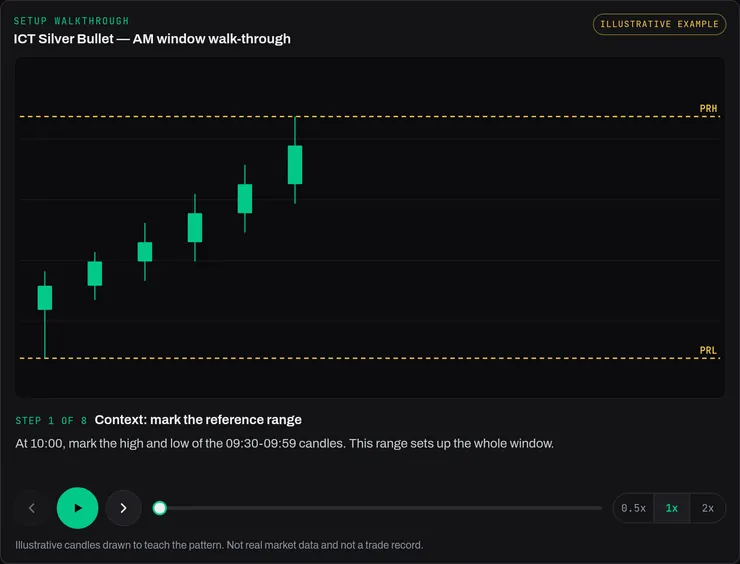
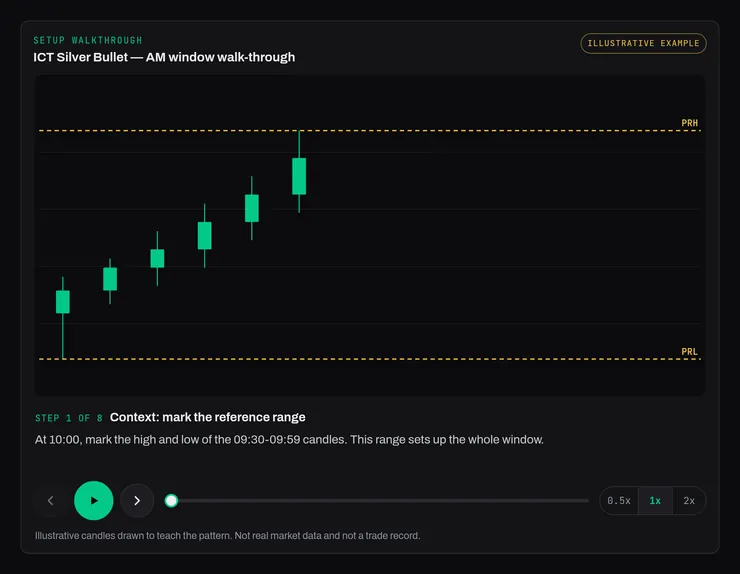
Models page: re-capture every image with app background around the content
Hero (1440 + 390), cards, player, rules, steps, notice and mobile are
re-captured from the same demo pages with 24px (16px on phone) of app
background on every side; the hero now ends in the gap below the first card
row instead of mid-card. width/height, aspect-ratio/--ar and the sx-box
overlay percentages are recomputed from the old and new capture rectangles,
so each box stays on the same element.

diff --git a/features/models.html b/features/models.html
@@ -114,7 +114,7 @@
 <figure class="gv-term solo" data-fp-play>
 <div class="gv-term-bar"><span class="gv-dot"></span><b>Trading models · Library</b></div>
 <div class="gv-term-body fp-pad">
-<div class="gv-chart"><picture><source media="(max-width:600px)" srcset="/assets/images/models/hero-390.webp" width="700" height="1054"><img src="/assets/images/models/hero-1440.webp" width="1400" height="867" fetchpriority="high" decoding="async" alt="The model library: category filters and the first two model cards, CRT and the ICT 2022 Model, each with a diagram, a tag and its first steps."></picture></div>
+<div class="gv-chart"><picture><source media="(max-width:600px)" srcset="/assets/images/models/hero-390.webp" width="740" height="1594"><img src="/assets/images/models/hero-1440.webp" width="1400" height="944" fetchpriority="high" decoding="async" alt="The model library: category filters and the first two model cards, CRT and the ICT 2022 Model, each with a diagram, a tag and its first steps."></picture></div>
 </div>
 <figcaption class="fg-cap">The model library.</figcaption>
 </figure>
@@ -124,12 +124,12 @@
 </header>
 <div class="container">
 <section class="ft-section sx" id="whats-on-the-page"><div class="ft-section-head ft-reveal"><h2>What’s in the model library</h2><p>Each model is written to the same standard: conditions, exact entry criteria and a written walkthrough.</p></div><nav class="sx-index" aria-label="Jump to a feature"><div><a href="#sx-f-library" data-fp-ix="library"><em>01</em>Library</a><a href="#sx-f-walkthrough" data-fp-ix="walkthrough"><em>02</em>Walkthrough</a><a href="#sx-f-rules" data-fp-ix="rules"><em>03</em>Written rules</a><a href="#sx-f-steps" data-fp-ix="steps"><em>04</em>Checklist</a><a href="#sx-f-process" data-fp-ix="process"><em>05</em>Process</a><a href="#sx-f-mobile" data-fp-ix="mobile"><em>06</em>Mobile</a></div></nav><div class="sx-rows">
-<article class="sx-row" id="sx-f-library" data-fp-row="library"><div class="sx-frame fp-pad"><div class="sx-media" style="aspect-ratio:740/775;--ar:0.9548"><img src="/assets/images/models/cards.webp" width="740" height="775" loading="lazy" decoding="async" alt="Model cards in a grid under category filters: CRT, ICT 2022, ICT Silver Bullet and ICT Unicorn, each with a diagram, tag and first steps."><i class="sx-box chip" style="--x:0%;--y:0.4%;--bw:100%;--bh:2.6%;--n:1"></i></div><p class="sx-cap">Model cards with category filters.</p></div><div class="sx-copy"><span class="sx-n">01 / 06</span><h3>One library, filtered by category</h3><p class="sx-text">Every model sits in one library. Filter by category, such as opening and session, liquidity and reversal, imbalance and FVG, or mean reversion, and open the playbook you want.</p><details class="sx-how"><summary>How it works</summary><p>Each card shows the model’s diagram, its category tag, its first steps and how many steps and minutes of reading it has.</p></details></div></article>
-<article class="sx-row flip" id="sx-f-walkthrough" data-fp-row="walkthrough"><div class="sx-frame fp-pad"><div class="sx-media" style="aspect-ratio:740/564;--ar:1.3121"><img src="/assets/images/models/player.webp" width="740" height="564" loading="lazy" decoding="async" alt="The setup walkthrough player for ICT Silver Bullet: an illustrative candle chart with range lines, step 1 of 8 and play controls."><i class="sx-box" style="--x:2.1%;--y:72.6%;--bw:70%;--bh:4.4%;--n:1"></i></div><p class="sx-cap">Setup walkthrough, step by step.</p></div><div class="sx-copy"><span class="sx-n">02 / 06</span><h3>Animated setup walkthrough</h3><p class="sx-text">Step through the setup one stage at a time, with each stage drawn on an illustrative chart. Pause, go back, or change the speed.</p><details class="sx-how"><summary>How it works</summary><p>The walkthrough is drawn to teach the pattern. The page labels it an illustrative example: not real market data and not a trade record.</p></details></div></article>
-<article class="sx-row" id="sx-f-rules" data-fp-row="rules"><div class="sx-frame fp-pad"><div class="sx-media" style="aspect-ratio:740/540;--ar:1.3704"><img src="/assets/images/models/rules.webp" width="740" height="540" loading="lazy" decoding="async" alt="A rules table for the ICT Silver Bullet: window, reference range, sweep, trigger, entry, stop, target, time exit and max trades, for the AM and PM windows."><i class="sx-scan"></i></div><p class="sx-cap">The mechanical rules, in one table.</p></div><div class="sx-copy"><span class="sx-n">03 / 06</span><h3>The written rules</h3><p class="sx-text">Context, trigger, entry, invalidation and management written down precisely enough that two students read the same setup the same way.</p><details class="sx-how"><summary>How it works</summary><p>The stop is part of the model, decided before entry, not an afterthought.</p></details></div></article>
-<article class="sx-row flip" id="sx-f-steps" data-fp-row="steps"><div class="sx-frame fp-pad"><div class="sx-media" style="aspect-ratio:740/678;--ar:1.0914"><img src="/assets/images/models/steps.webp" width="740" height="678" loading="lazy" decoding="async" alt="The Steps and criteria checklist: numbered steps from marking the reference range to placing the stop, with a count of steps checked."><i class="sx-box" style="--x:0.5%;--y:0.6%;--bw:99%;--bh:6%;--n:1"></i></div><p class="sx-cap">Steps and criteria checklist.</p></div><div class="sx-copy"><span class="sx-n">04 / 06</span><h3>Steps &amp; criteria checklist</h3><p class="sx-text">Every model ends in a numbered checklist. Tick the steps off as you learn them.</p><details class="sx-how"><summary>How it works</summary><p>The checklist sits under the written model, with a reset button.</p></details></div></article>
-<article class="sx-row" id="sx-f-process" data-fp-row="process"><div class="sx-frame fp-pad"><div class="sx-media" style="aspect-ratio:740/381;--ar:1.9423"><img src="/assets/images/models/notice.webp" width="740" height="381" loading="lazy" decoding="async" alt="How to trade any model on this page: five numbered steps, from prep before the session to journaling every trade against the model."><i class="sx-scan"></i></div><p class="sx-cap">The five-step process shown above the library.</p></div><div class="sx-copy"><span class="sx-n">05 / 06</span><h3>How to trade any model</h3><p class="sx-text">One process for every model: prep before the session, apply the model’s rules exactly, never skip the confirmation step, size from the stop, and journal every trade against the model.</p><details class="sx-how"><summary>How it works</summary><p>The same five steps sit at the top of the library, so the routine is the same whichever model you study.</p></details></div></article>
-<article class="sx-row flip" id="sx-f-mobile" data-fp-row="mobile"><div class="sx-frame fp-pad"><div class="sx-media" style="aspect-ratio:700/1054;--ar:0.6641"><img src="/assets/images/models/mobile.webp" width="700" height="1054" loading="lazy" decoding="async" alt="The ICT Silver Bullet walkthrough on a phone screen."></div><p class="sx-cap">The walkthrough on a phone.</p></div><div class="sx-copy"><span class="sx-n">06 / 06</span><h3>On any screen</h3><p class="sx-text">The library, the walkthroughs and the checklists work on a phone: the same account and the same models.</p><details class="sx-how"><summary>How it works</summary><p>Open a model on your phone before a session and run the checklist from there.</p></details></div></article>
+<article class="sx-row" id="sx-f-library" data-fp-row="library"><div class="sx-frame fp-pad"><div class="sx-media" style="aspect-ratio:740/790;--ar:0.9367"><img src="/assets/images/models/cards.webp" width="740" height="790" loading="lazy" decoding="async" alt="Model cards in a grid under category filters: CRT, ICT 2022, ICT Silver Bullet and ICT Unicorn, each with a diagram, tag and first steps."><i class="sx-box chip" style="--x:2.3%;--y:2.1%;--bw:95.5%;--bh:2.4%;--n:1"></i></div><p class="sx-cap">Model cards with category filters.</p></div><div class="sx-copy"><span class="sx-n">01 / 06</span><h3>One library, filtered by category</h3><p class="sx-text">Every model sits in one library. Filter by category, such as opening and session, liquidity and reversal, imbalance and FVG, or mean reversion, and open the playbook you want.</p><details class="sx-how"><summary>How it works</summary><p>Each card shows the model’s diagram, its category tag, its first steps and how many steps and minutes of reading it has.</p></details></div></article>
+<article class="sx-row flip" id="sx-f-walkthrough" data-fp-row="walkthrough"><div class="sx-frame fp-pad"><div class="sx-media" style="aspect-ratio:740/574;--ar:1.2892"><img src="/assets/images/models/player.webp" width="740" height="574" loading="lazy" decoding="async" alt="The setup walkthrough player for ICT Silver Bullet: an illustrative candle chart with range lines, step 1 of 8 and play controls."><i class="sx-box" style="--x:4.7%;--y:71.0%;--bw:66.1%;--bh:4.1%;--n:1"></i></div><p class="sx-cap">Setup walkthrough, step by step.</p></div><div class="sx-copy"><span class="sx-n">02 / 06</span><h3>Animated setup walkthrough</h3><p class="sx-text">Step through the setup one stage at a time, with each stage drawn on an illustrative chart. Pause, go back, or change the speed.</p><details class="sx-how"><summary>How it works</summary><p>The walkthrough is drawn to teach the pattern. The page labels it an illustrative example: not real market data and not a trade record.</p></details></div></article>
+<article class="sx-row" id="sx-f-rules" data-fp-row="rules"><div class="sx-frame fp-pad"><div class="sx-media" style="aspect-ratio:740/551;--ar:1.3430"><img src="/assets/images/models/rules.webp" width="740" height="551" loading="lazy" decoding="async" alt="A rules table for the ICT Silver Bullet: window, reference range, sweep, trigger, entry, stop, target, time exit and max trades, for the AM and PM windows."><i class="sx-scan"></i></div><p class="sx-cap">The mechanical rules, in one table.</p></div><div class="sx-copy"><span class="sx-n">03 / 06</span><h3>The written rules</h3><p class="sx-text">Context, trigger, entry, invalidation and management written down precisely enough that two students read the same setup the same way.</p><details class="sx-how"><summary>How it works</summary><p>The stop is part of the model, decided before entry, not an afterthought.</p></details></div></article>
+<article class="sx-row flip" id="sx-f-steps" data-fp-row="steps"><div class="sx-frame fp-pad"><div class="sx-media" style="aspect-ratio:740/880;--ar:0.8409"><img src="/assets/images/models/steps.webp" width="740" height="880" loading="lazy" decoding="async" alt="The Steps and criteria checklist: numbered steps from marking the reference range to placing the stop, with a count of steps checked."><i class="sx-box" style="--x:2.4%;--y:2.1%;--bw:95.1%;--bh:4.4%;--n:1"></i></div><p class="sx-cap">Steps and criteria checklist.</p></div><div class="sx-copy"><span class="sx-n">04 / 06</span><h3>Steps &amp; criteria checklist</h3><p class="sx-text">Every model ends in a numbered checklist. Tick the steps off as you learn them.</p><details class="sx-how"><summary>How it works</summary><p>The checklist sits under the written model, with a reset button.</p></details></div></article>
+<article class="sx-row" id="sx-f-process" data-fp-row="process"><div class="sx-frame fp-pad"><div class="sx-media" style="aspect-ratio:740/397;--ar:1.8640"><img src="/assets/images/models/notice.webp" width="740" height="397" loading="lazy" decoding="async" alt="How to trade any model on this page: five numbered steps, from prep before the session to journaling every trade against the model."><i class="sx-scan"></i></div><p class="sx-cap">The five-step process shown above the library.</p></div><div class="sx-copy"><span class="sx-n">05 / 06</span><h3>How to trade any model</h3><p class="sx-text">One process for every model: prep before the session, apply the model’s rules exactly, never skip the confirmation step, size from the stop, and journal every trade against the model.</p><details class="sx-how"><summary>How it works</summary><p>The same five steps sit at the top of the library, so the routine is the same whichever model you study.</p></details></div></article>
+<article class="sx-row flip" id="sx-f-mobile" data-fp-row="mobile"><div class="sx-frame fp-pad"><div class="sx-media" style="aspect-ratio:700/1132;--ar:0.6184"><img src="/assets/images/models/mobile.webp" width="700" height="1132" loading="lazy" decoding="async" alt="The ICT Silver Bullet walkthrough on a phone screen."></div><p class="sx-cap">The walkthrough on a phone.</p></div><div class="sx-copy"><span class="sx-n">06 / 06</span><h3>On any screen</h3><p class="sx-text">The library, the walkthroughs and the checklists work on a phone: the same account and the same models.</p><details class="sx-how"><summary>How it works</summary><p>Open a model on your phone before a session and run the checklist from there.</p></details></div></article>
 </div></section>
 
 <section class="ft-section" id="anatomy">
